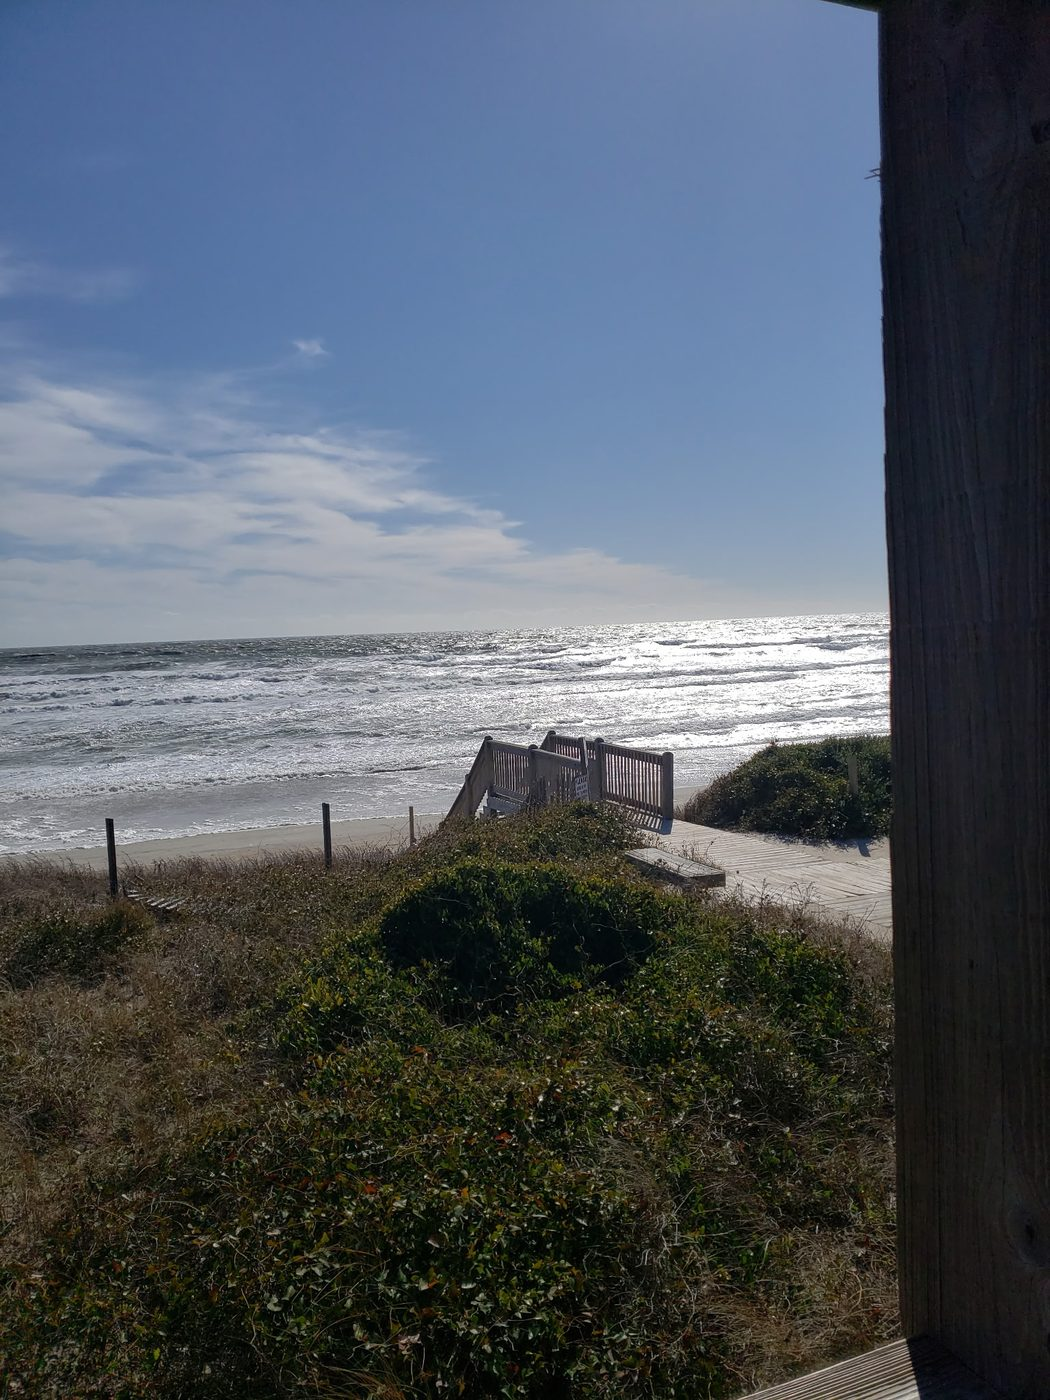
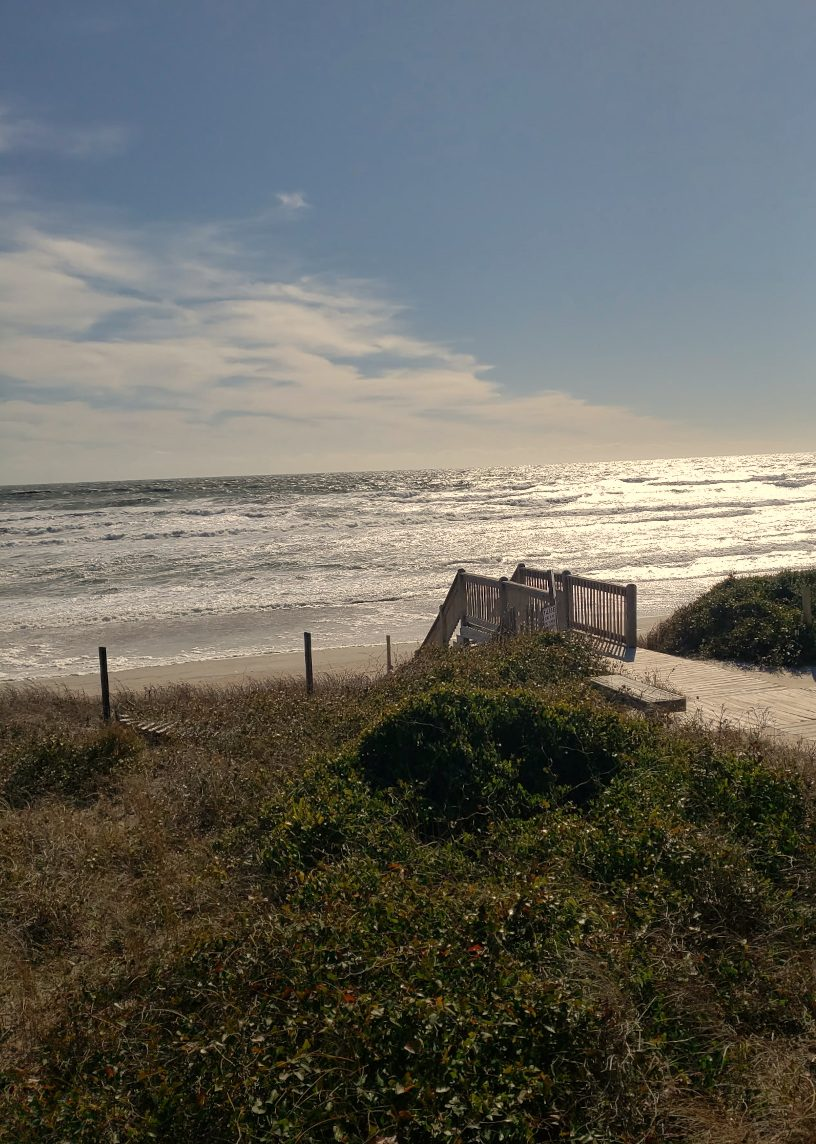
Use photo 9's crop for the About section too

diff --git a/index.html b/index.html
@@ -463,7 +463,7 @@
       <div class="about-photo">
         <picture>
           <source srcset="images/about-coastal.webp" type="image/webp">
-          <img src="images/about-coastal.jpg" alt="A quiet stretch of North Carolina coastline" width="1050" height="1400" loading="lazy" decoding="async">
+          <img src="images/about-coastal.jpg" alt="The beach boardwalk at Trinity Center in Salter Path, NC" width="816" height="1144" loading="lazy" decoding="async">
         </picture>
       </div>
     </div>
